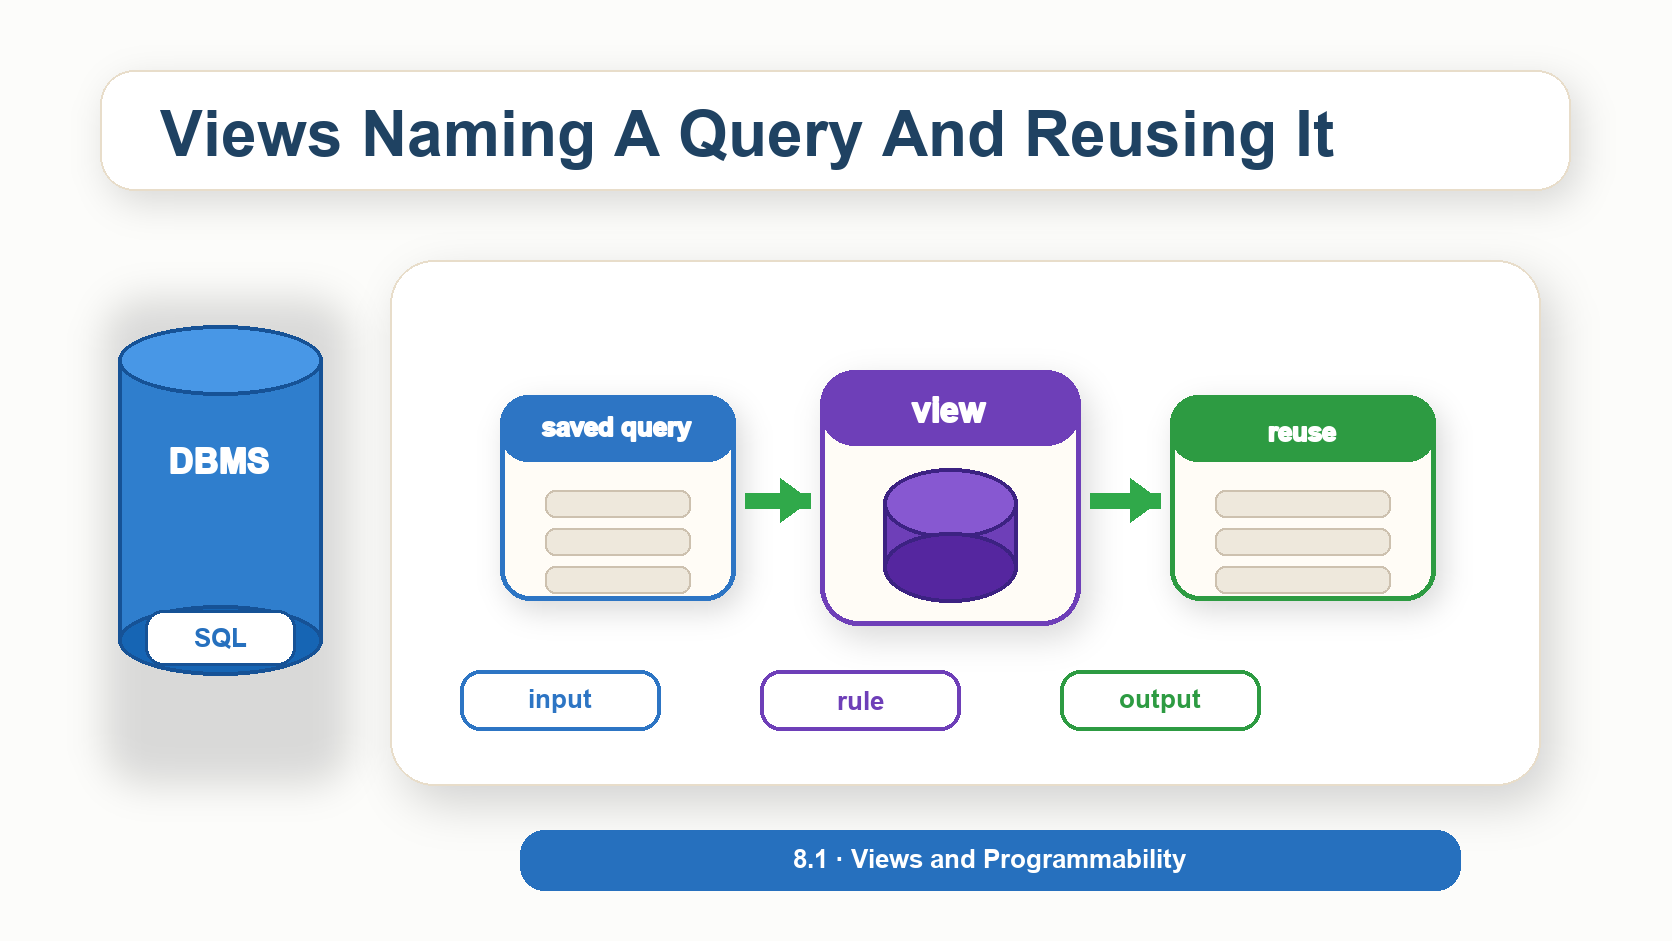
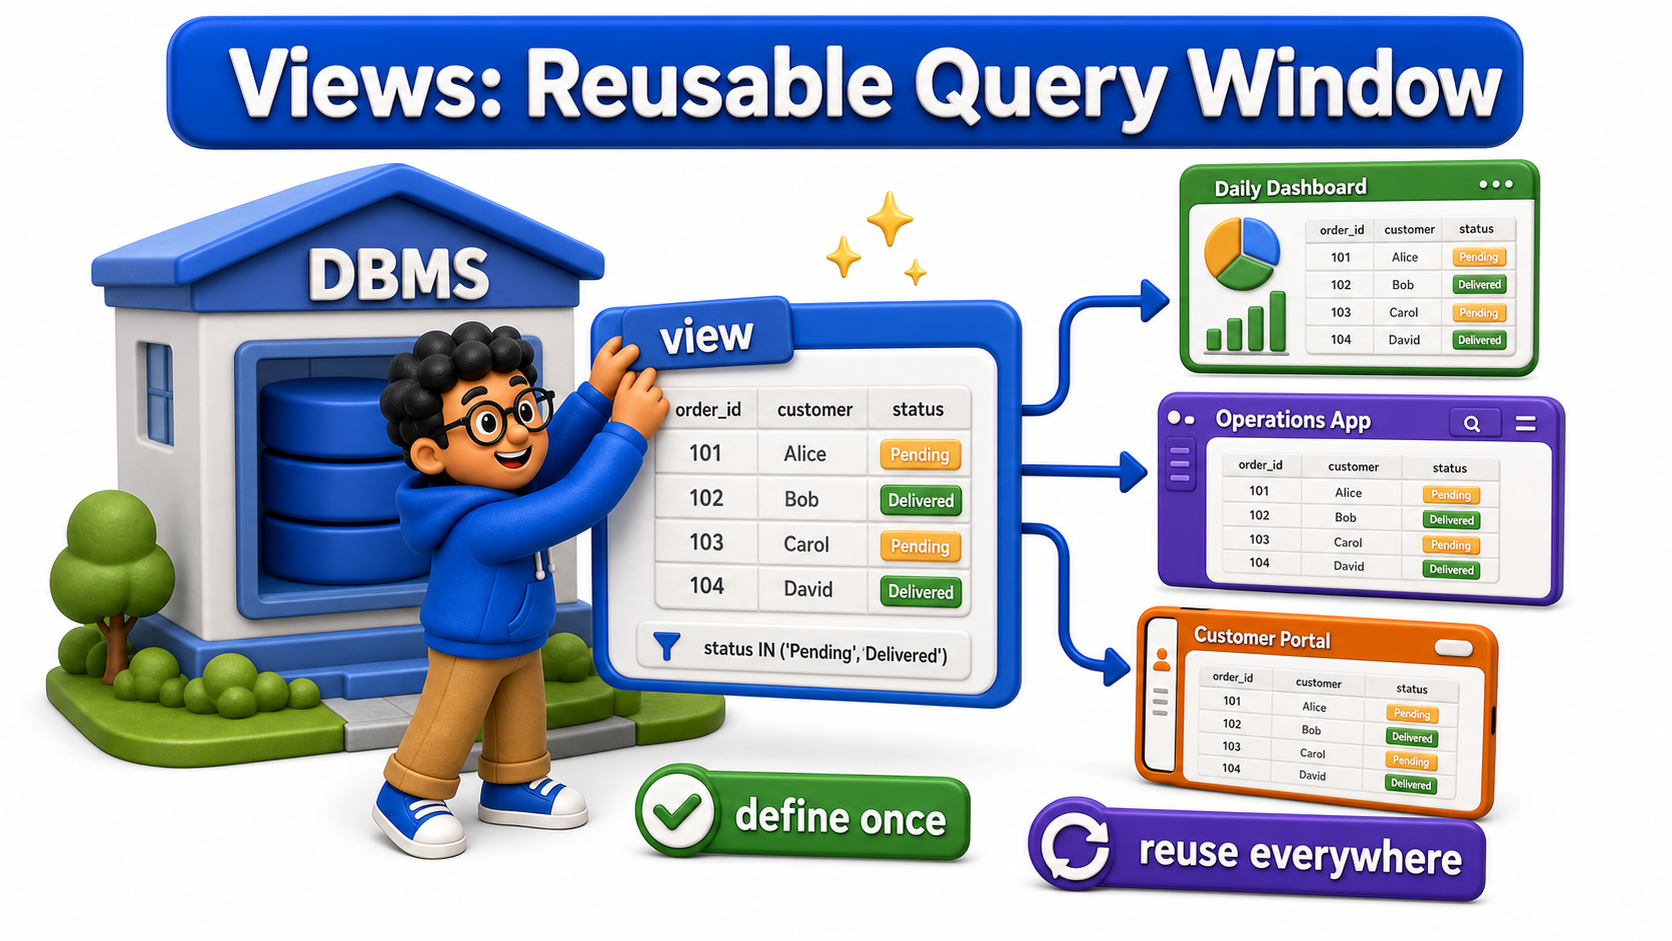
Replace unit 8.1 intro placeholders with actual 3D visuals

diff --git a/content/DBMS_Upload_Chapters/8.1 - Views and Programmability/02_updatable_views_and_their_limitations.md b/content/DBMS_Upload_Chapters/8.1 - Views and Programmability/02_updatable_views_and_their_limitations.md
@@ -6,7 +6,7 @@ A view built simply enough can be genuinely **updatable**, passing writes straig
 
 **Definition:** A view built from a single table with no aggregation is updatable automatically, since a row in the view maps unambiguously to one row in one underlying table, while a view involving a join or an aggregate cannot be written to directly, since that mapping becomes ambiguous or nonexistent, though `INSTEAD OF` triggers exist as a deliberate way to bridge that gap when genuinely needed.
 
-![Intro visual for updatable views and their limitations](https://s3.ap-south-1.amazonaws.com/static.bytexl.app/uploads/44sjn9mdv/content/images/02_intro_updatable_views_and_their_limitations_clean_57db0a2c.png)
+![Intro visual for updatable views and their limitations](https://s3.ap-south-1.amazonaws.com/static.bytexl.app/uploads/44sjn9mdv/content/images/02_intro_updatable_views_and_their_limitations_actual3d_49d4fdde.png)
 
 ## A Simple View Is Updatable by Default
 

diff --git a/content/DBMS_Upload_Chapters/8.1 - Views and Programmability/06_triggers.md b/content/DBMS_Upload_Chapters/8.1 - Views and Programmability/06_triggers.md
@@ -10,7 +10,7 @@ A **trigger** delivers exactly this: a piece of logic the database runs automati
 
 **Definition:** A trigger runs automatically in response to an insert, update, or delete, with `BEFORE` triggers able to validate or reject a change before it happens, `AFTER` triggers able to react once a change has completed, and `INSTEAD OF` triggers able to make an otherwise non-writable view accept writes, all without requiring any cooperation from whoever issues the original statement.
 
-![Intro visual for triggers](https://s3.ap-south-1.amazonaws.com/static.bytexl.app/uploads/44sjn9mdv/content/images/06_intro_triggers_clean_da9655ea.png)
+![Intro visual for triggers](https://s3.ap-south-1.amazonaws.com/static.bytexl.app/uploads/44sjn9mdv/content/images/06_intro_triggers_actual3d_92969e37.png)
 
 ## Creating a Trigger Function and Attaching It
 

diff --git a/content/DBMS_Upload_Chapters/8.1 - Views and Programmability/03_materialized_views.md b/content/DBMS_Upload_Chapters/8.1 - Views and Programmability/03_materialized_views.md
@@ -6,7 +6,7 @@ A **`materialized view`** solves this by actually storing the query's result on 
 
 **Definition:** A `materialized view` stores its query's result physically rather than recomputing it on every read, dramatically speeding up expensive aggregate or summary queries, at the cost of only being as current as its most recent explicit refresh, with `REFRESH MATERIALIZED VIEW CONCURRENTLY` available when the view needs to stay readable during that refresh.
 
-![Intro visual for materialized views](https://s3.ap-south-1.amazonaws.com/static.bytexl.app/uploads/44sjn9mdv/content/images/03_intro_materialized_views_clean_da4987f0.png)
+![Intro visual for materialized views](https://s3.ap-south-1.amazonaws.com/static.bytexl.app/uploads/44sjn9mdv/content/images/03_intro_materialized_views_actual3d_0fddd17b.png)
 
 ## Creating a Materialized View
 

diff --git a/content/DBMS_Upload_Chapters/8.1 - Views and Programmability/04_stored_procedures.md b/content/DBMS_Upload_Chapters/8.1 - Views and Programmability/04_stored_procedures.md
@@ -6,7 +6,7 @@ It means changing the shipment's status, and also inserting a row into a separat
 
 **Definition:** A `stored procedure`, invoked with `CALL`, wraps multiple statements into a single, named, reusable routine defined once inside the database, capable of managing its own transaction boundaries including mid-procedure commits, which guarantees every caller gets identical, correct behavior without reimplementing the same logic client by client.
 
-![Intro visual for stored procedures](https://s3.ap-south-1.amazonaws.com/static.bytexl.app/uploads/44sjn9mdv/content/images/04_intro_stored_procedures_clean_3c780f06.png)
+![Intro visual for stored procedures](https://s3.ap-south-1.amazonaws.com/static.bytexl.app/uploads/44sjn9mdv/content/images/04_intro_stored_procedures_actual3d_de10d39e.png)
 
 ## Creating a Simple Procedure
 

diff --git a/content/DBMS_Upload_Chapters/8.1 - Views and Programmability/01_views_naming_a_query_and_reusing_it.md b/content/DBMS_Upload_Chapters/8.1 - Views and Programmability/01_views_naming_a_query_and_reusing_it.md
@@ -6,7 +6,7 @@ A **view** solves this by giving a query a permanent name in the database itself
 
 **Definition:** A view saves a query under a reusable name, always re-running against current data rather than storing a snapshot, which turns a frequently repeated, error-prone query into a single, consistently defined building block every downstream report can rely on.
 
-![Intro visual for views naming a query and reusing it](https://s3.ap-south-1.amazonaws.com/static.bytexl.app/uploads/44sjn9mdv/content/images/01_intro_views_naming_a_query_and_reusing_it_clean_7e6863b4.png)
+![Intro visual for views naming a query and reusing it](https://s3.ap-south-1.amazonaws.com/static.bytexl.app/uploads/44sjn9mdv/content/images/01_intro_views_naming_a_query_and_reusing_it_actual3d_aae48486.png)
 
 ## Creating a View from an Existing Query
 

diff --git a/content/DBMS_Upload_Chapters/8.1 - Views and Programmability/05_userdefined_functions.md b/content/DBMS_Upload_Chapters/8.1 - Views and Programmability/05_userdefined_functions.md
@@ -6,7 +6,7 @@ Unlike marking a shipment delivered, this is not a "run these statements togethe
 
 **Definition:** A user-defined function computes and returns a value, or a set of rows, and is called from within a query rather than as a standalone action, always running as part of the caller's own transaction rather than managing one of its own, which is the defining difference from the procedures covered in the previous lesson.
 
-![Intro visual for userdefined functions](https://s3.ap-south-1.amazonaws.com/static.bytexl.app/uploads/44sjn9mdv/content/images/05_intro_userdefined_functions_clean_6f5d7f89.png)
+![Intro visual for userdefined functions](https://s3.ap-south-1.amazonaws.com/static.bytexl.app/uploads/44sjn9mdv/content/images/05_intro_userdefined_functions_actual3d_23574ed4.png)
 
 ## Creating a Simple Function
 

diff --git a/content/DBMS/8 - Going to Production/8.1 - Views and Programmability/02_updatable_views_and_their_limitations.md b/content/DBMS/8 - Going to Production/8.1 - Views and Programmability/02_updatable_views_and_their_limitations.md
@@ -20,7 +20,7 @@ ON-IMAGE TEXT: show a short bold title "Updatable Views And Their Limitations" p
 GOAL: make the opening idea instantly clear and engaging while matching the existing DBMS reading-material image standards.
 -->
 
-![Intro visual for updatable views and their limitations](https://s3.ap-south-1.amazonaws.com/static.bytexl.app/uploads/44sjn9mdv/content/images/02_intro_updatable_views_and_their_limitations_clean_57db0a2c.png)
+![Intro visual for updatable views and their limitations](https://s3.ap-south-1.amazonaws.com/static.bytexl.app/uploads/44sjn9mdv/content/images/02_intro_updatable_views_and_their_limitations_actual3d_49d4fdde.png)
 
 ## A Simple View Is Updatable by Default
 

diff --git a/content/DBMS/8 - Going to Production/8.1 - Views and Programmability/01_views_naming_a_query_and_reusing_it.md b/content/DBMS/8 - Going to Production/8.1 - Views and Programmability/01_views_naming_a_query_and_reusing_it.md
@@ -20,7 +20,7 @@ ON-IMAGE TEXT: show a short bold title "Views Naming A Query And Reusing It" plu
 GOAL: make the opening idea instantly clear and engaging while matching the existing DBMS reading-material image standards.
 -->
 
-![Intro visual for views naming a query and reusing it](https://s3.ap-south-1.amazonaws.com/static.bytexl.app/uploads/44sjn9mdv/content/images/01_intro_views_naming_a_query_and_reusing_it_clean_7e6863b4.png)
+![Intro visual for views naming a query and reusing it](https://s3.ap-south-1.amazonaws.com/static.bytexl.app/uploads/44sjn9mdv/content/images/01_intro_views_naming_a_query_and_reusing_it_actual3d_aae48486.png)
 
 ## Creating a View from an Existing Query
 

diff --git a/content/DBMS/8 - Going to Production/8.1 - Views and Programmability/05_userdefined_functions.md b/content/DBMS/8 - Going to Production/8.1 - Views and Programmability/05_userdefined_functions.md
@@ -20,7 +20,7 @@ ON-IMAGE TEXT: show a short bold title "Userdefined Functions" plus only these f
 GOAL: make the opening idea instantly clear and engaging while matching the existing DBMS reading-material image standards.
 -->
 
-![Intro visual for userdefined functions](https://s3.ap-south-1.amazonaws.com/static.bytexl.app/uploads/44sjn9mdv/content/images/05_intro_userdefined_functions_clean_6f5d7f89.png)
+![Intro visual for userdefined functions](https://s3.ap-south-1.amazonaws.com/static.bytexl.app/uploads/44sjn9mdv/content/images/05_intro_userdefined_functions_actual3d_23574ed4.png)
 
 ## Creating a Simple Function
 

diff --git a/content/DBMS/8 - Going to Production/8.1 - Views and Programmability/03_materialized_views.md b/content/DBMS/8 - Going to Production/8.1 - Views and Programmability/03_materialized_views.md
@@ -20,7 +20,7 @@ ON-IMAGE TEXT: show a short bold title "Materialized Views" plus only these few 
 GOAL: make the opening idea instantly clear and engaging while matching the existing DBMS reading-material image standards.
 -->
 
-![Intro visual for materialized views](https://s3.ap-south-1.amazonaws.com/static.bytexl.app/uploads/44sjn9mdv/content/images/03_intro_materialized_views_clean_da4987f0.png)
+![Intro visual for materialized views](https://s3.ap-south-1.amazonaws.com/static.bytexl.app/uploads/44sjn9mdv/content/images/03_intro_materialized_views_actual3d_0fddd17b.png)
 
 ## Creating a Materialized View
 

diff --git a/content/DBMS/8 - Going to Production/8.1 - Views and Programmability/04_stored_procedures.md b/content/DBMS/8 - Going to Production/8.1 - Views and Programmability/04_stored_procedures.md
@@ -20,7 +20,7 @@ ON-IMAGE TEXT: show a short bold title "Stored Procedures" plus only these few l
 GOAL: make the opening idea instantly clear and engaging while matching the existing DBMS reading-material image standards.
 -->
 
-![Intro visual for stored procedures](https://s3.ap-south-1.amazonaws.com/static.bytexl.app/uploads/44sjn9mdv/content/images/04_intro_stored_procedures_clean_3c780f06.png)
+![Intro visual for stored procedures](https://s3.ap-south-1.amazonaws.com/static.bytexl.app/uploads/44sjn9mdv/content/images/04_intro_stored_procedures_actual3d_de10d39e.png)
 
 ## Creating a Simple Procedure
 

diff --git a/content/DBMS/8 - Going to Production/8.1 - Views and Programmability/06_triggers.md b/content/DBMS/8 - Going to Production/8.1 - Views and Programmability/06_triggers.md
@@ -24,7 +24,7 @@ ON-IMAGE TEXT: show a short bold title "Triggers" plus only these few labels, la
 GOAL: make the opening idea instantly clear and engaging while matching the existing DBMS reading-material image standards.
 -->
 
-![Intro visual for triggers](https://s3.ap-south-1.amazonaws.com/static.bytexl.app/uploads/44sjn9mdv/content/images/06_intro_triggers_clean_da9655ea.png)
+![Intro visual for triggers](https://s3.ap-south-1.amazonaws.com/static.bytexl.app/uploads/44sjn9mdv/content/images/06_intro_triggers_actual3d_92969e37.png)
 
 ## Creating a Trigger Function and Attaching It
 
